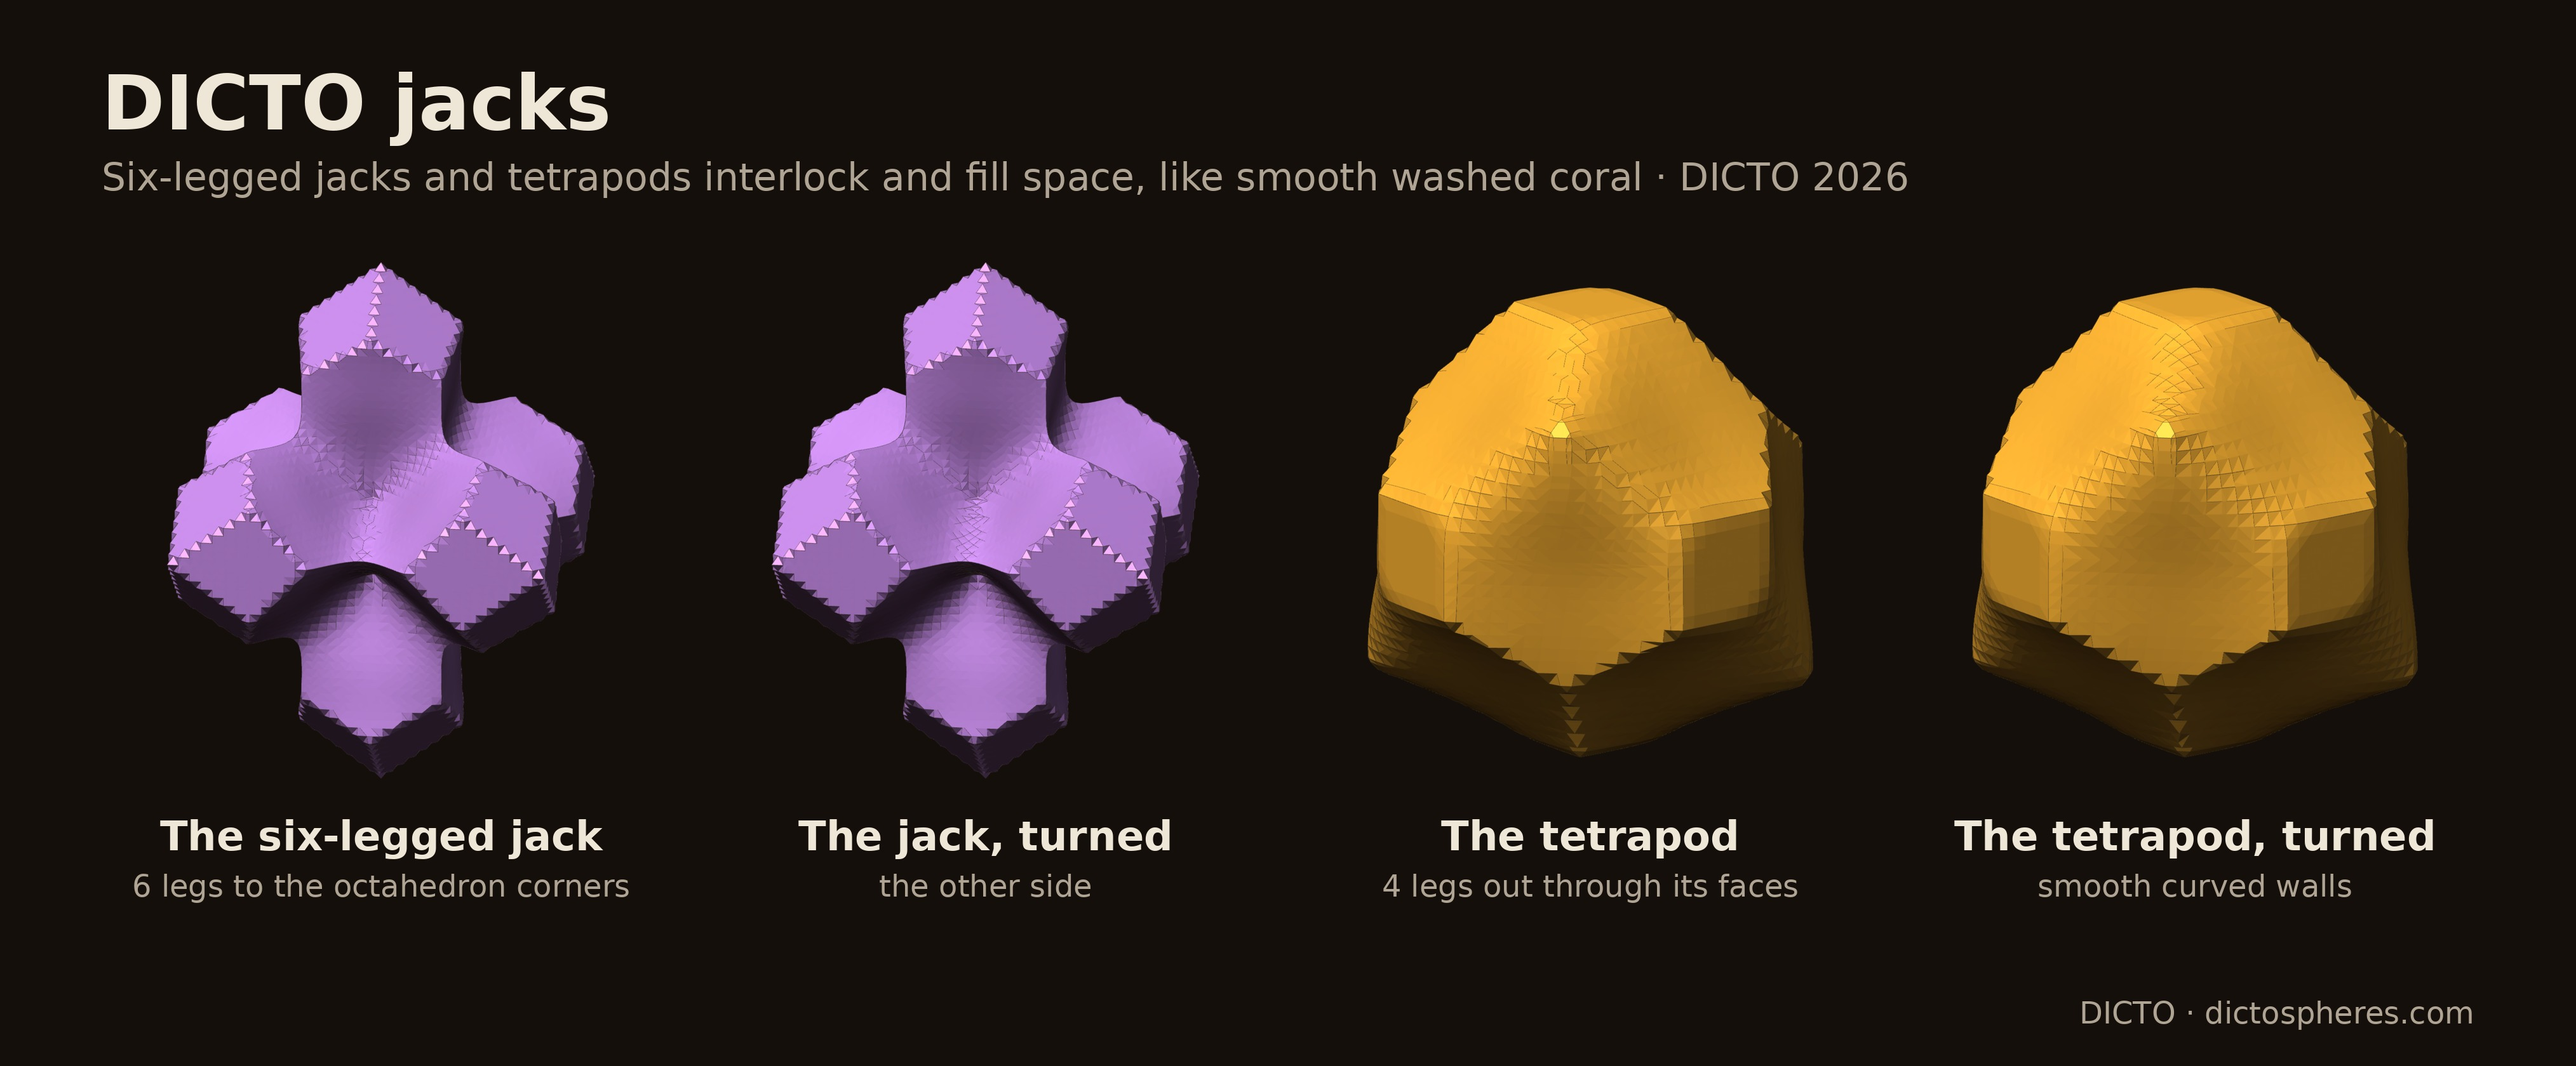
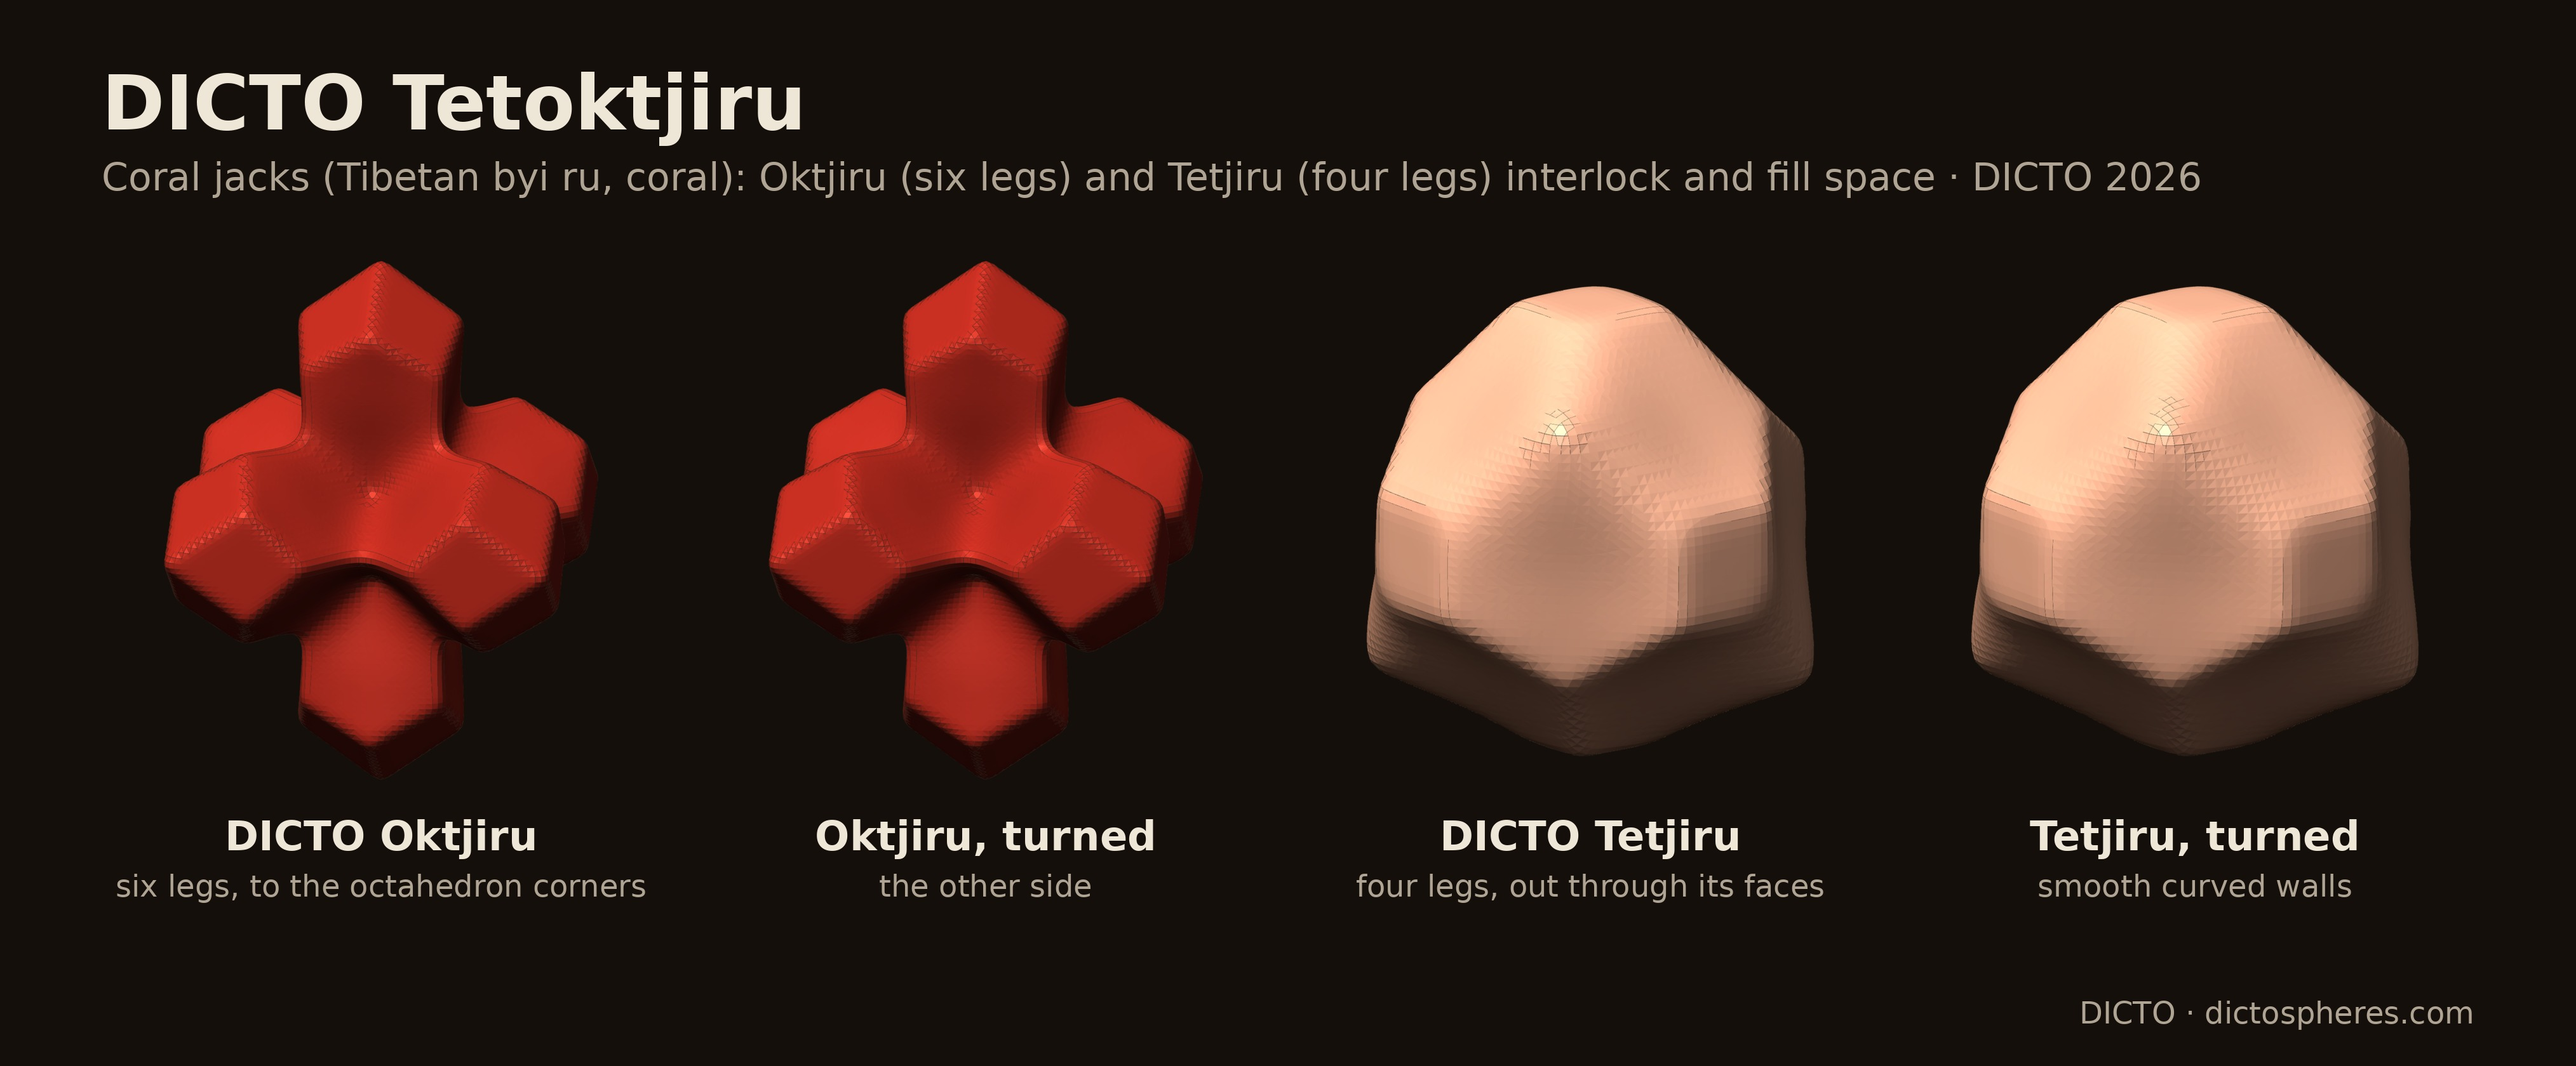
Tetoktjiru (DICTO's names: Oktjiru + Tetjiru, Tibetan byi ru = coral): smoothed render in polished coral

diff --git a/studies/2026-10-20-double-octet/jacks_octet_figs.py b/studies/2026-10-20-double-octet/jacks_octet_figs.py
@@ -3,25 +3,25 @@ import os, json, itertools, numpy as np
 HERE = os.path.dirname(os.path.abspath(__file__))
 MAIN = "if __name__ == " + "'__main__':"
 exec(open(os.path.join(HERE, 'jacks_octet.py')).read().split(MAIN)[0])
-GOLD, PURPLE = '#d9a334', '#a77be0'
+GOLD, PURPLE = '#f3b9a4', '#a5281f'          # polished coral (DICTO): angel-skin pink (Tetjiru), oxblood red (Oktjiru)
 def part(mf, col):
     me = mf.to_mesh(); P = np.asarray(me.vert_properties[:, :3]); T = np.asarray(me.tri_verts).tolist()
     return {'v': np.round(P, 5).tolist(), 't': T, 'c': [col] * len(T), 'e': None, 'a': 1.0}
 scenes = []; add = lambda t_, s_, parts: scenes.append({'title': t_, 'sub': s_, 'parts': parts})
 S0 = sphere_piece((1, 0, 0)); F0 = filler(np.array([(0, 0, 0), (1, 1, 0), (1, 0, 1), (0, 1, 1)], float))
-add('The six-legged jack', '6 legs to the octahedron corners', [part(S0, PURPLE)])
-add('The jack, turned', 'the other side', [part(S0.rotate([0, 0, 90]), PURPLE)])
-add('The tetrapod', '4 legs out through its faces', [part(F0, GOLD)])
-add('The tetrapod, turned', 'smooth curved walls', [part(F0.rotate([0, 0, 180]), GOLD)])
+add('DICTO Oktjiru', 'six legs, to the octahedron corners', [part(S0, PURPLE)])
+add('Oktjiru, turned', 'the other side', [part(S0.rotate([0, 0, 90]), PURPLE)])
+add('DICTO Tetjiru', 'four legs, out through its faces', [part(F0, GOLD)])
+add('Tetjiru, turned', 'smooth curved walls', [part(F0.rotate([0, 0, 180]), GOLD)])
 cen = np.array([1.0, 0, 0]); ps = [part(S0, PURPLE)]
 for sg in itertools.product((1, -1), repeat=3):
     sgv = np.array(sg, float); V = [cen + sgv[j] * np.eye(3)[j] for j in range(3)] + [cen + sgv]
     ps.append(part(filler(np.array(V)).translate(list(sgv * 0.5)), GOLD))
-add('One jack, eight tetrapod legs in its hollows', 'drawn apart', ps)
+add('One Oktjiru, eight Tetjiru legs in its hollows', 'drawn apart', ps)
 blk = [part(filler(V).translate(list((b_ - 0.5) * 0.3)), GOLD) for b_, V in tets_in(range(0, 2))]
 for p_ in [(1, 0, 0), (0, 1, 0), (0, 0, 1), (1, 1, 1), (2, 1, 0), (2, 0, 1), (1, 2, 0), (0, 2, 1), (1, 0, 2), (0, 1, 2), (2, 1, 2), (1, 2, 2), (2, 2, 1)]:
     blk.append(part(sphere_piece(p_).translate(list((np.array(p_, float) - 1) * 0.3)), PURPLE))
-add('A block', 'jacks and tetrapods, slightly apart', blk)
+add('A block', 'Oktjiru and Tetjiru, slightly apart', blk)
 for s in scenes:
     pts = np.vstack([np.array(p['v']) for p in s['parts']]); ctr = (pts.max(0) + pts.min(0)) / 2
     for p in s['parts']: p['v'] = (np.array(p['v']) - ctr).round(5).tolist()

diff --git a/studies/2026-10-20-double-octet/jacks_octet.py b/studies/2026-10-20-double-octet/jacks_octet.py
@@ -11,7 +11,8 @@
 # volumes add up to space.
 import itertools, sys, numpy as np, manifold3d as m3
 from skimage.measure import marching_cubes
-RHO_OCT, TIP_OCT, RHO_TET, TIP_TET, TET_LEN, K, STEP = 0.24, 0.06, 0.22, 0.07, 0.62, 0.04, 0.03
+from scipy.ndimage import gaussian_filter
+RHO_OCT, TIP_OCT, RHO_TET, TIP_TET, TET_LEN, K, STEP = 0.24, 0.06, 0.22, 0.07, 0.62, 0.04, 0.02
 if len(sys.argv) > 4: RHO_OCT, TIP_OCT, RHO_TET, TIP_TET = map(float, sys.argv[1:5])
 AX = np.vstack([np.eye(3), -np.eye(3)])
 def tet_legs(t):
@@ -40,7 +41,8 @@ def piece_mesh(c, legs, A, W, half=1.35):
     others = [o for o in centres_near(c, 2 * half + .2) if np.linalg.norm(o[0] - c) > 1e-9]
     fc = field(G, c, legs, A, W); m = np.full(len(G), np.inf)
     for o in others: m = np.minimum(m, field(G, *o))
-    g = (fc - m).reshape(n, n, n); g[0], g[-1], g[:, 0], g[:, -1], g[:, :, 0], g[:, :, -1] = 1, 1, 1, 1, 1, 1
+    g = gaussian_filter((fc - m).reshape(n, n, n), 1.2)          # smooths the grid steps away (about 0.02 wide), not the shape
+    g[0], g[-1], g[:, 0], g[:, -1], g[:, :, 0], g[:, :, -1] = 1, 1, 1, 1, 1, 1
     V, F, _, _ = marching_cubes(g, 0.0, spacing=(STEP,) * 3); V = V - half + c
     mf = m3.Manifold(m3.Mesh(vert_properties=np.array(V, np.float32), tri_verts=np.array(F, np.uint32)))
     if mf.volume() < 0 or mf.status() != m3.Error.NoError:

diff --git a/studies/2026-10-20-double-octet/jacks_octet_compose.py b/studies/2026-10-20-double-octet/jacks_octet_compose.py
@@ -20,5 +20,5 @@ def sheet(idx, cols, path, title=None, sub=None, cell=520, gap=36, names=None, s
             d.text((x + cell / 2 - d.textlength(txt, font=fo) / 2, yy), txt, font=fo, fill=col)
     m = 'DICTO · dictospheres.com'; d.text((W - 80 * K - d.textlength(m, font=f(24 * K)), Hh - 56 * K), m, font=f(24 * K), fill=MUTE)
     im.save(os.path.join(OUT, path), quality=92); print(path, im.size)
-sheet([0, 1, 2, 3], 4, 'jacks-octet-a.jpg', 'DICTO jacks', 'Six-legged jacks and tetrapods interlock and fill space, like smooth washed coral · DICTO 2026', cell=440)
+sheet([0, 1, 2, 3], 4, 'jacks-octet-a.jpg', 'DICTO Tetoktjiru', 'Coral jacks (Tibetan byi ru, coral): Oktjiru (six legs) and Tetjiru (four legs) interlock and fill space · DICTO 2026', cell=440)
 sheet([4, 5], 2, 'jacks-octet-b.jpg', cell=600)
